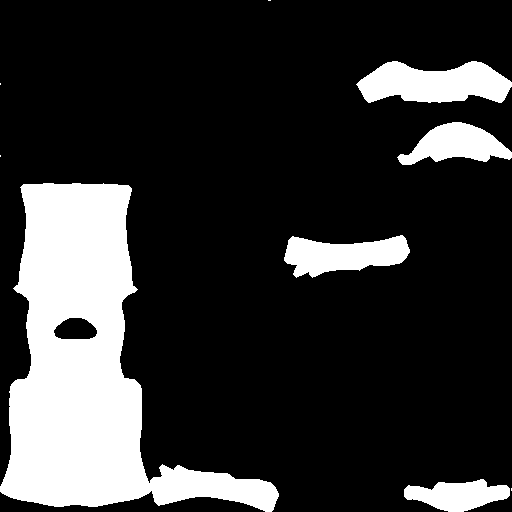
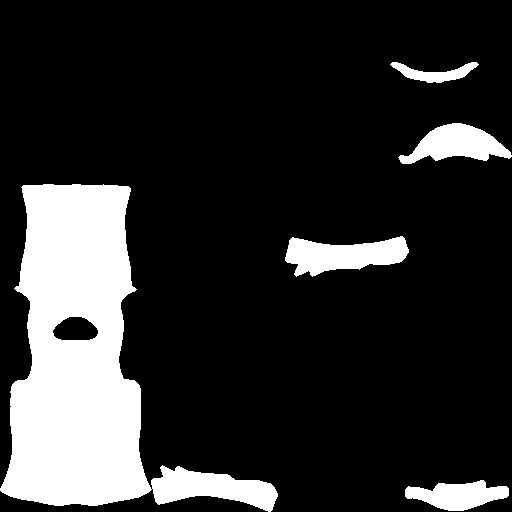
char3d: give the heroes their necks back, and stop lying about the bake
Every torso garment was deleting the throat, so the head sat on the shoulders
and from behind you could see down inside the collar. The cause is proximity:
the mask hides skin within 3.5 cm of cloth, and a throat is within 3.5 cm of a
collar that stands well clear of it.

Three rules were written to fix that and not one did. Rejecting hits on any
open-edge face brought the bare chest back, because the tunic's laced placket is
an open edge too. Rejecting them only from the outward side never fired at all,
because a collar is a TUBE and skin above it is inside that tube, which the side
test reads as under cloth. Measuring ENCLOSURE with a fan of rays failed for the
same geometry: a collar does surround a throat sideways, and only the opening
above escapes. Tightening the distance to 1.2 cm saved the neck and put the legs
straight through the trousers.

All four were general answers to a specific problem. Nothing in this wardrobe
covers a throat — the collars stand off it, and the hood is a shell around the
skull with its whole front open. So the throat is excluded by REGION, from
neck_01, so a different body carries its own line. With that in place there was
nothing left for a clever proximity rule to do, and every one of them is deleted:
the coverage test is back to the two that always worked on the body.

AND NONE OF THE THREE HAD EVER BEEN TESTED. Image.save() with a relative path
writes nothing and reports nothing — Blender resolves it against the blend file,
[…]

diff --git a/scripts/bake_body_masks.py b/scripts/bake_body_masks.py
@@ -41,21 +41,30 @@ PX = 512
 ## a loose sleeve stops hiding the arm inside it; too large and the ray from a
 ## shoulder finds the trousers.
 MAX_DIST = 0.06
-## How close cloth has to be for the skin to count as covered, REGARDLESS of
-## which side of it that skin is on.
+## How close cloth has to be for the skin to count as covered.
+##
+## THIS IS THE WHOLE FIX FOR THE NECK, and it took a control render to see.
+## Hidden-surface removal exists to stop skin poking THROUGH cloth, and skin only
+## pokes through where the cloth is TIGHT. A collar stands 2-3 cm off the throat
+## and a hood a good 4 cm off the skull: nothing pokes through either, so neither
+## needs a single vertex deleted — and deleting them is what left a ragged hole
+## under the jaw with the inside of the collar showing through it.
+##
+## Tightening this to 1.2 cm did save the neck, and put the legs straight
+## through the trousers: loose cloth that genuinely covers still has to mask, so
+## distance alone cannot separate the two cases. The NECK LINE below does.
 ##
 ## The side test is the trap, and it cost a whole bake to see: an "is this
 ## vertex inside the garment" check excludes precisely the vertices that cause
 ## poke-through, because skin that pokes through is by definition OUTSIDE the
 ## cloth. Hiding only the properly-tucked-in skin fixes nothing visible.
 ##
-## So proximity alone, and generously. Hiding a sliver of skin just beyond a
-## hem is invisible — cloth is there. Leaving one poking vertex is the bug.
+## So proximity regardless of side — but CLOSE proximity, not generous.
 NEAR = 0.035
 ## Pixels of dilation. The mask is sampled per fragment, so a boundary that is
 ## exactly right in UV space still shows a rim of skin where a texel straddles
 ## the garment's edge. Growing it closes that without eating visible skin.
-GROW = 3
+GROW = 2
 
 
 def clear() -> None:
@@ -82,46 +91,69 @@ def _import(path: str) -> list:
     return [o for o in bpy.data.objects if o not in keep]
 
 
-def rim_faces(garment) -> set:
-    """Faces touching an OPEN edge — the neck hole, the cuffs, the hem.
+def neck_line(objs) -> float:
+    """Height of the base of the neck, from the rig rather than from a guess.
 
-    A garment is a tube, and its openings are where the proximity test lies. A
-    neck vertex sitting comfortably ABOVE a high collar is still within 3.5 cm
-    of that collar's rim, so proximity alone calls it covered and the figurine
-    loses its neck. Cuffs and hems fail the same way, just less visibly.
+    NOTHING IN THIS WARDROBE COVERS A THROAT. Not the tunics, whose collars stand
+    2-3 cm clear of it, and not the hood, which is a shell around the skull with
+    its whole front open. So no garment may delete a single vertex above this
+    line, and the entire class of "the hero has no neck" bugs stops being
+    reachable.
 
-    An edge with one adjacent face is a border. Rejecting proximity hits that
-    land on a border face draws the line where the cloth actually stops.
+    That is a stronger statement than any distance rule, and it is the one that
+    is actually true: a rule tuned to spare the throat let the legs through the
+    trousers, and a rule tuned to catch the legs ate the throat. This is not a
+    threshold to be balanced, it is a region to be excluded.
+
+    Taken from `neck_01`, so a different body of a different height carries its
+    own line with it.
     """
-    import bmesh
+    for o in objs:
+        if o.type != "ARMATURE":
+            continue
+        b = o.data.bones.get("neck_01")
+        if b is not None:
+            return (o.matrix_world @ b.matrix_local).translation.z
+    return 1e9
 
-    bm = bmesh.new()
-    bm.from_mesh(garment.data)
-    out = {f.index for e in bm.edges if len(e.link_faces) == 1 for f in e.link_faces}
-    bm.free()
-    return out
 
-
-def covered_vertices(body, garment) -> np.ndarray:
+def covered_vertices(body, garment, above: float = 1e9) -> np.ndarray:
     """Boolean per body vertex: is this skin underneath this garment?
 
     TWO tests, because either alone is wrong.
 
     The RAY along the vertex's own outward normal answers "is there cloth
-    directly outside this skin", which is the right question for an open
-    surface — a garment is a tube, open at neck, cuffs and hem, so "inside the
-    mesh" is undefined for it. On its own it is far too strict: it only fires
+    directly outside this skin". On its own it is far too strict: it only fires
     where the cloth happens to sit along that exact normal, and the first bake
     caught 562 of 7281 vertices under a full tunic and produced a mask with
     holes in the middle of the chest.
 
-    The SIGNED DISTANCE fills those in. Take the closest point on the garment;
-    if it is near, and this vertex lies BEHIND the garment's surface there, the
-    skin is inside the cloth. That is the standard cloth-body interpenetration
-    test, and it does not care which way the vertex happens to face.
+    PROXIMITY fills those in — and proximity is where the neck was lost.
 
-    Either one is enough to hide the skin. Hiding a little too much is
-    invisible; hiding too little is the bug being fixed.
+    THE NECK, AND WHY TWO EARLIER RULES COULD NOT SAVE IT. A vertex on the throat
+    sits a couple of centimetres above a high collar, well clear of any cloth,
+    and is still within 3.5 cm of that collar's rim. Proximity alone therefore
+    calls it covered and the figurine's head sits straight on its shoulders.
+
+    Rejecting every hit that lands on a rim face swings past it: the tunic's
+    laced front placket is an open edge too, so the whole chest gets exempted and
+    the bare torso comes back. Rejecting rim hits only from the OUTWARD side —
+    which is what shipped, and which measured 100 % of the male neck still
+    eaten — cannot work either, because a collar is a TUBE: skin above it is
+    inside that tube's radius, so the side test reads "under cloth" and the
+    exemption never fires at all.
+
+    WHAT THIS DELIBERATELY NO LONGER DOES is reason about rims, sides or
+    enclosure. Three rules were written to stop proximity eating the throat — a
+    rim exemption, a side-aware rim exemption, and a fan of rays measuring how
+    enclosed each vertex is — and each one either still ate the neck or started
+    putting the legs through the trousers. They were all attacking a general
+    problem to fix a specific one.
+
+    `neck_line` fixes the specific one, exactly and permanently. With the throat
+    excluded by REGION there is nothing left for a clever proximity rule to
+    solve, so the clever proximity rules are gone and this is back to the two
+    tests that always worked on the body.
     """
     # LOCAL space throughout. Every mesh in this pack is authored against the
     # same origin — `measure` and `fit` both compare raw vertex coordinates and
@@ -129,28 +161,17 @@ def covered_vertices(body, garment) -> np.ndarray:
     # identity, so this is the same frame either way and the simpler one.
     n = len(body.data.vertices)
     out = np.zeros(n, dtype=bool)
-    rim = rim_faces(garment)
     for i, v in enumerate(body.data.vertices):
         o = v.co
+        if o.z >= above:
+            continue      # the throat and the head: see `neck_line`
         d = Vector(v.normal).normalized()
         # Start a hair off the skin so a coincident surface does not self-hit.
         if garment.ray_cast(o + d * 0.0005, d, distance=MAX_DIST)[0]:
             out[i] = True
             continue
-        ok, loc, nrm, face = garment.closest_point_on_mesh(o, distance=NEAR)
-        if not ok or (o - loc).length > NEAR:
-            continue
-        # Proximity to a garment's OPEN EDGE does not mean covered — but only
-        # from the outside of it. Skin inside a collar is under cloth and must
-        # go; skin above the collar is bare and must stay, and both are within
-        # 3.5 cm of the same rim.
-        #
-        # Rejecting every rim hit outright was tried and swings too far the
-        # other way: the tunic's laced front placket is an open edge too, so the
-        # whole chest was exempted and the bare torso came back.
-        if face in rim and (o - loc).dot(nrm) > 0.0:
-            continue
-        out[i] = True
+        ok, loc, _nrm, _face = garment.closest_point_on_mesh(o, distance=NEAR)
+        out[i] = ok and (o - loc).length <= NEAR
     return out
 
 
@@ -218,22 +239,31 @@ def save(img: np.ndarray, path: str) -> None:
     im.filepath_raw = path
     im.save()
     bpy.data.images.remove(im)
+    # AND CHECK IT LANDED. `Image.save()` with a RELATIVE filepath writes
+    # nothing and says nothing — Blender resolves it against the blend file,
+    # which in a --background run is nowhere. Three separate rules were baked,
+    # measured and rendered against masks four days old before this was noticed,
+    # because every step in between reported success.
+    if not os.path.exists(path):
+        raise SystemExit("mask was not written: %s" % path)
 
 
 def main() -> None:
     argv = sys.argv[sys.argv.index("--") + 1:]
-    body_path, out_dir, garment_paths = argv[0], argv[1], argv[2:]
+    body_path, out_dir, garment_paths = argv[0], os.path.abspath(argv[1]), argv[2:]
     os.makedirs(out_dir, exist_ok=True)
 
     for gp in garment_paths:
         clear()
-        body = biggest(_import(body_path))
+        body_objs = _import(body_path)
+        body = biggest(body_objs)
+        above = neck_line(body_objs)
         garment_objs = skinned(_import(gp))
         if body is None or not garment_objs:
             raise SystemExit("missing body or garment in %s" % gp)
         cov = np.zeros(len(body.data.vertices), dtype=bool)
         for g in garment_objs:
-            cov |= covered_vertices(body, g)
+            cov |= covered_vertices(body, g, above)
         img = grow(rasterize(body, cov, PX), GROW)
         stem = os.path.splitext(os.path.basename(gp))[0]
         dst = os.path.join(out_dir, stem + "_mask.png")

diff --git a/scripts/figurine_render.py b/scripts/figurine_render.py
@@ -28,7 +28,7 @@ sys.path.insert(0, os.path.dirname(os.path.abspath(__file__)))
 # copied. Two definitions of "is this skin under that garment" is how the
 # offline render and the live figurine start disagreeing about where the holes
 # are, and the one that is wrong is whichever nobody looked at last.
-from bake_body_masks import covered_vertices  # noqa: E402
+from bake_body_masks import covered_vertices, neck_line  # noqa: E402
 
 SAMPLES = 160
 RES = 1024
@@ -105,9 +105,13 @@ def strip_covered(body, garment_objs) -> int:
     """
     import bmesh
 
+    # The neck line matters MORE here than in the game. A mask only discards
+    # fragments; this deletes faces outright, so skin carved off the throat is
+    # not a dark patch, it is a hole you can see the inside of the skull through.
+    above = neck_line(list(bpy.data.objects))
     cov = np.zeros(len(body.data.vertices), dtype=bool)
     for g in garment_objs:
-        cov |= covered_vertices(body, g)
+        cov |= covered_vertices(body, g, above)
 
     bm = bmesh.new()
     bm.from_mesh(body.data)

diff --git a/godot/docs/CharacterRender.md b/godot/docs/CharacterRender.md
@@ -158,6 +158,41 @@ the Blender clip list therefore matches nothing and does so **silently** — the
 figure simply keeps whatever pose it already had, which reads as a design
 decision rather than a lookup that found no clip.
 
+### The neck, and the four rules it took
+
+Every torso garment was deleting the throat, so the head sat straight on the
+shoulders and you could see down inside the collar from behind. The cause was
+proximity: the mask hides skin within 3.5 cm of cloth, and a throat is within
+3.5 cm of a collar that stands clear of it.
+
+Three rules were written to fix that and none did.
+
+| Rule | Result |
+|---|---|
+| Reject hits on any open-edge face | The tunic's laced placket is an open edge too — the whole chest came back bare |
+| Reject them only from the outward side | A collar is a TUBE: skin above it is *inside* that tube, so the side test reads "under cloth" and never fires |
+| Require the skin be ENCLOSED — a fan of rays, most finding cloth | A collar does surround a throat sideways; only the opening above escapes. Still ate it |
+| Tighten the distance to 1.2 cm | Saved the neck, put the legs straight through the trousers |
+
+All four were general answers to a specific problem. **Nothing in this wardrobe
+covers a throat** — the collars stand off it and the hood is a shell around the
+skull with its whole front open. So `neck_line` excludes everything above
+`neck_01` by REGION, taken from the rig so a different body carries its own
+line, and the entire class of bug stops being reachable. With that in place
+there was nothing left for a clever proximity rule to do, and all of them were
+deleted.
+
+**And none of the three had ever actually been tested.** `Image.save()` with a
+relative path writes nothing and reports nothing, so every re-bake for four days
+was a no-op and every measurement was taken against stale PNGs. The bake now
+checks the file exists afterwards. The lesson is the repo's own, again: the
+render was identical three times running, and that was the evidence.
+
+`jiggle_shot` renders each garment on the neck at close range with a `_raw`
+control beside it — the same loadout with masking off. That control is what
+finally separated "the mask is eating it" from "the collar just looks like
+that", after an hour of tuning a bake that was not being written.
+
 ### Hair, which was in the repo all along
 
 Five cuts and a beard ship with the base characters, skinned to the same 65

diff --git a/godot/docs/FigurineHandoff.md b/godot/docs/FigurineHandoff.md
@@ -141,6 +141,16 @@ the last thing it did and never idles again. Which clips loop is not readable
 from the table, because Godot sets loop mode from a `_Loop` suffix it strips —
 so `self_check` asserts every gesture clip exists AND ends.
 
+**`Image.save()` with a RELATIVE path writes nothing and says nothing.** Blender
+resolves it against the blend file, which in a `--background` run is nowhere.
+Four days of re-bakes were silent no-ops, and three separate coverage rules were
+measured and rendered against stale PNGs before the identical render gave it
+away. `bake_body_masks` now checks the file exists after saving.
+
+**Give every render an unmasked CONTROL.** "The mask is eating the neck" and
+"the collar just looks like that" are indistinguishable from one picture, and
+telling them apart took one render with hidden-surface removal switched off.
+
 **Cycles on this machine:** `HIP` is the working compute device, and the AgX look
 is named `AgX - Base Contrast` — `AgX - Medium Contrast` does not exist and
 throws.
